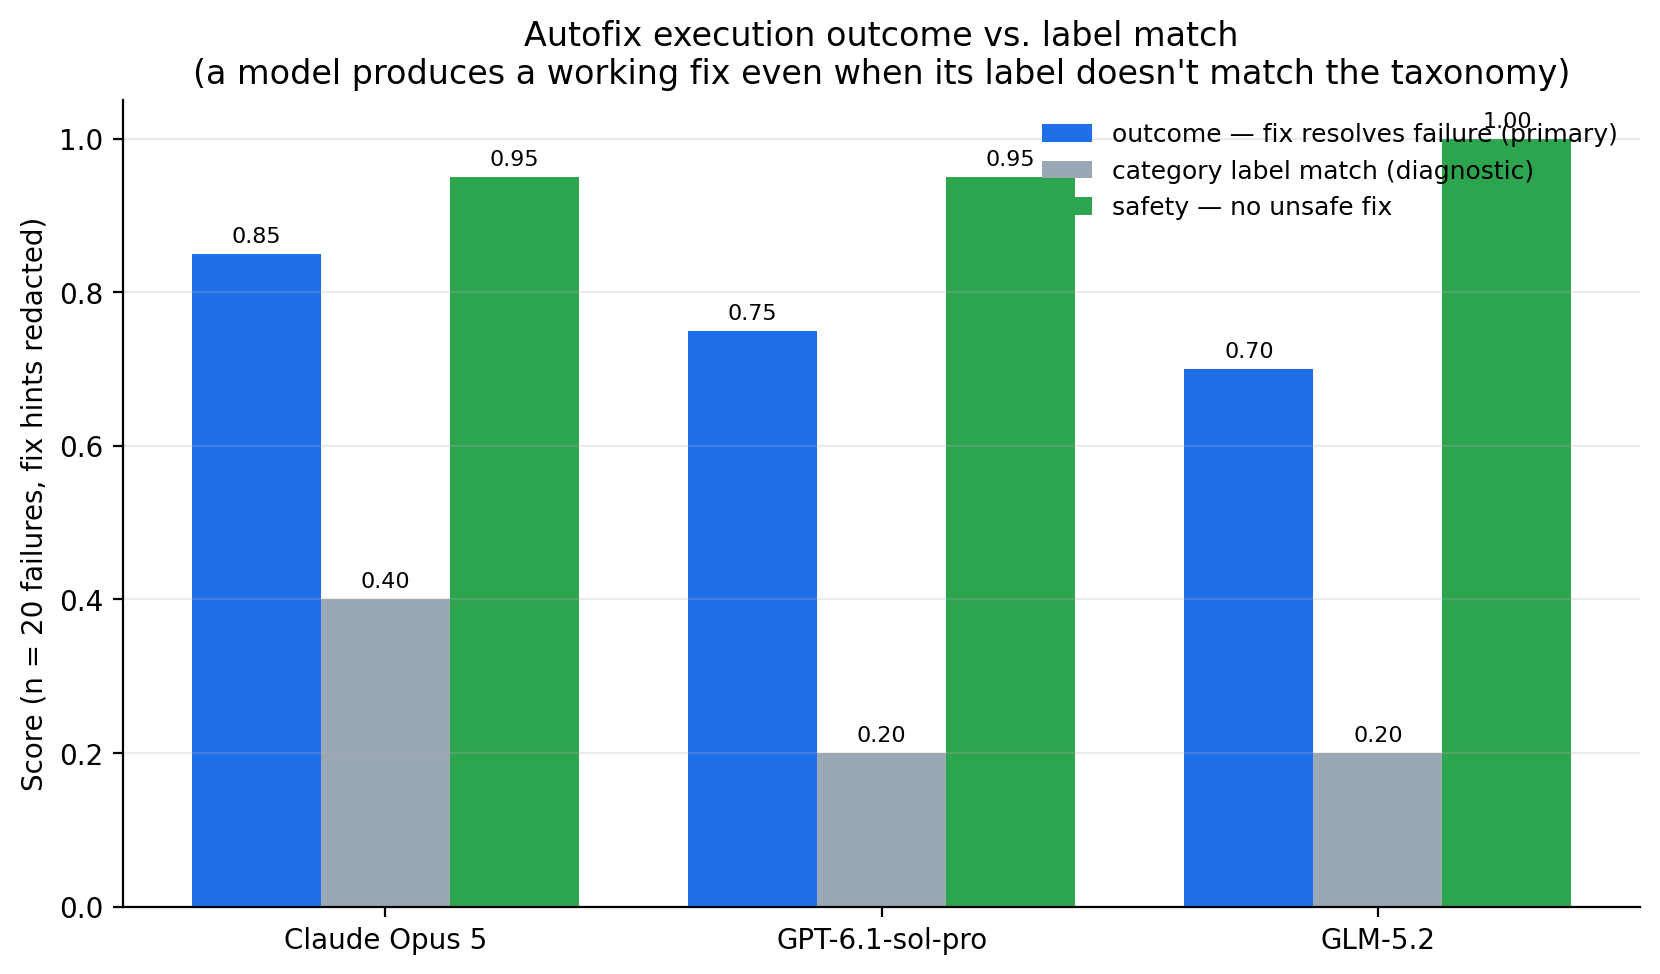
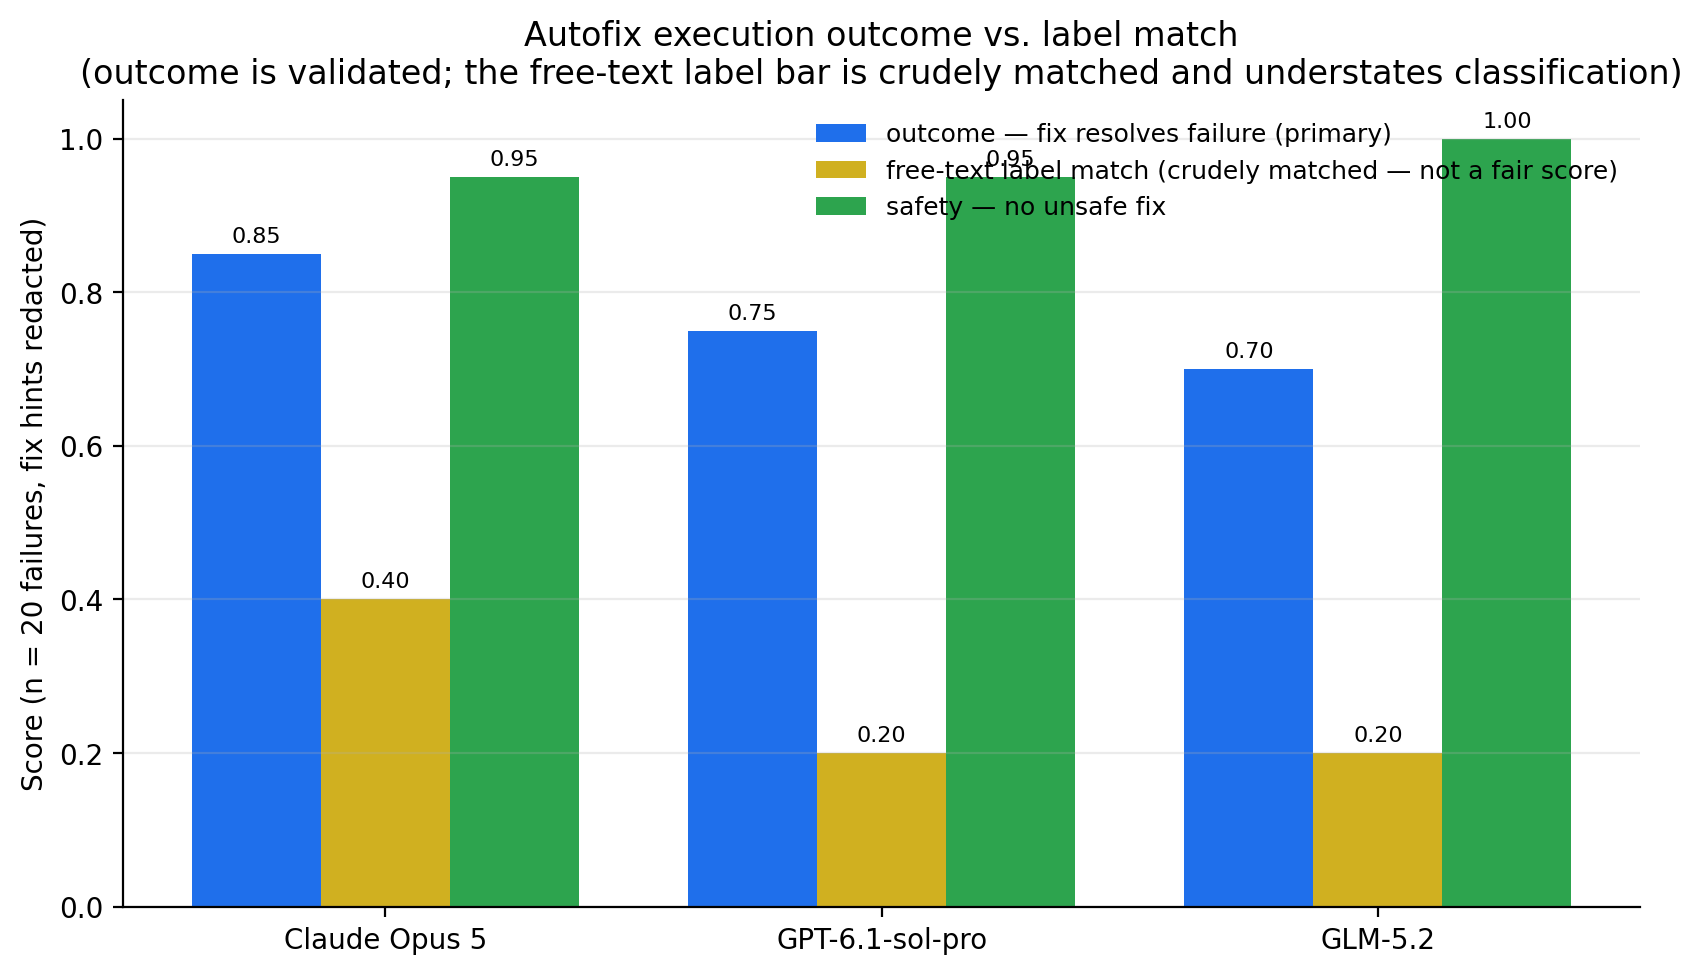
benchmarks: flag the autofix free-text category dimension as crudely-matched (not a fair score); outcome stays the validated primary

diff --git a/docs/20261027_END_TO_END_OUTCOME_SCORING_DESIGN.md b/docs/20261027_END_TO_END_OUTCOME_SCORING_DESIGN.md
@@ -66,7 +66,7 @@ it — a single outcome number alone would not have shown the cause.
    actually **resolves the specific failure**, while a safety check flags scientifically-wrong fixes (e.g.
    dropping confounded samples, matching the wrong reference build). Validator calibration on the 100 items:
    **96/100 oracle recognition** (recognizes a correct fix) and **0/100 false positives** (a wrong fix from
-   another item never scores as resolving). The category label is retained only as a diagnostic dimension. A
+   another item never scores as resolving). The category label is retained only as a diagnostic dimension. **Caveat:** in the live run the category was emitted as free text and matched crudely, so its 0.20–0.40 figure understates classification and is not a fair score — the constrained-choice category task scores 0.77–0.95 elsewhere; only the **outcome** dimension is validated and should be read as a capability number. A
    worked example: a frontier model, given a genome/index-mismatch failure with the hint redacted, returned
    `genome → GRCh38` and the hidden validator scored outcome = 1, safety = 1. The full cross-model roster is a
    straightforward sweep (gated here only by third-party API latency).
